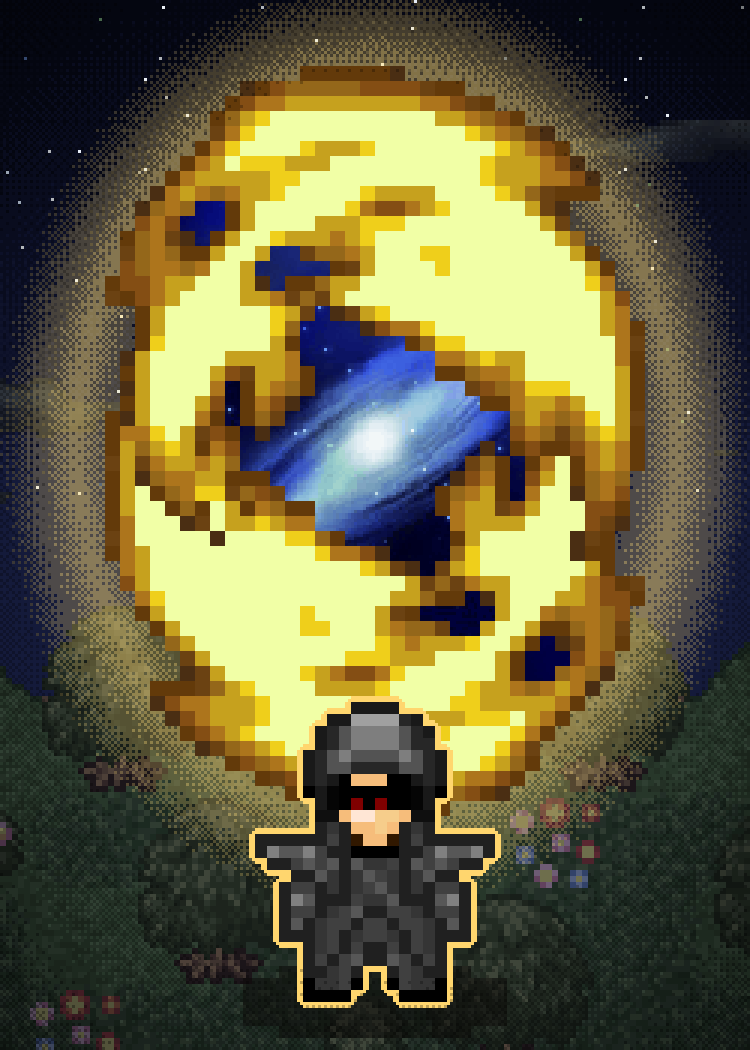
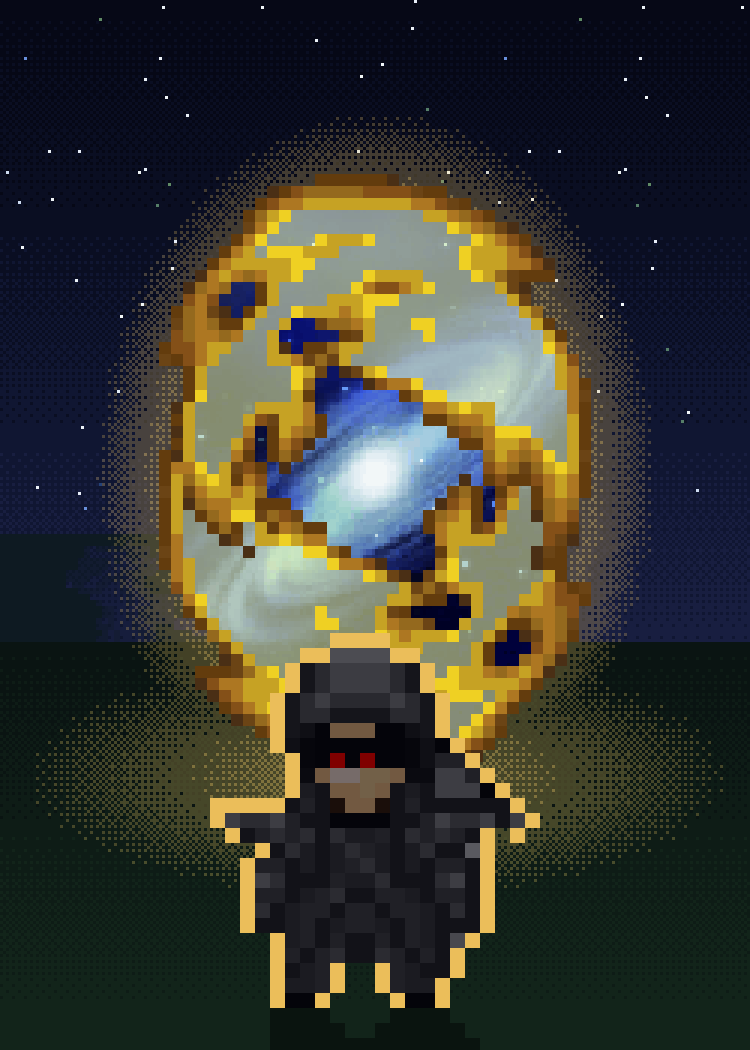
Sleeve-Entwürfe Runde 3b: Zwischenstand der laufenden Blöcke
Claude-Session: https://claude.ai/code/session_01TEnvTzH2xD44R6Unjv7vDo

diff --git a/data/sleeve-proposals/runde3/generator/s37_portal.py b/data/sleeve-proposals/runde3/generator/s37_portal.py
@@ -41,7 +41,7 @@ for oy, ox in [(0, 0), (0, 160), (80, 80), (80, -80), (150, 20)]:
 
 # ---------- Hügelkamm (2×, flache Silhouette weit hinten) ----------
 ridge = layer(G, 353)[190:260, 83:403].copy()
-ridge[..., :3] = (12, 22, 26)
+ridge[..., :3] = (14, 26, 34)
 R2 = up(ridge[:, 30:160], 2)
 cv.paste(R2, 0, HOR - 36)
 cv.rect(0, HOR + R2.shape[0] - 36, W, H, (12, 22, 26))
@@ -63,7 +63,7 @@ RX, RY = 125 - RW // 2, HOR + 44 - RH           # Portalfuß steht auf der Licht
 # goldener Schein um das Portal und auf dem Boden davor (fein gedithert)
 pcx, pcy = 125, RY + RH // 2
 d = np.sqrt(((xx - pcx) / 1.0) ** 2 + ((yy - pcy) / 1.3) ** 2)
-gl = np.clip(1 - np.abs(d - RW * 0.55) / 40, 0, 1) * 0.45
+gl = np.clip(1 - np.abs(d - RW * 0.5) / 22, 0, 1) * 0.35
 gd = np.sqrt(((xx - 125) / 1.0) ** 2 + ((yy - (HOR + 44)) / 0.35) ** 2)
 gl = np.maximum(gl, np.clip(1 - gd / 120, 0, 1) * 0.55 * (yy > HOR))
 qq = np.floor(gl * 4 + BAYER4[yy % 4, xx % 4]) / 4

diff --git a/data/sleeve-proposals/runde3/generator/s17_hydra_duel.py b/data/sleeve-proposals/runde3/generator/s17_hydra_duel.py
@@ -45,7 +45,7 @@ shade_rows(cv, 0, 120, 0.6, 0.0, (8, 12, 40), k=KM)            # Sturmdunkel
 hydra = figure('c17_hydra', RU, [9])
 Hy = up(hydra, KM)
 WL = SHORE - 5 * KM                                             # Wasserlinie (knapp vor der Kante sichtbar)
-hx, hy = (W - Hy.shape[1]) // 2 + 3, WL + 10 * KM - Hy.shape[0]
+hx, hy = (W - Hy.shape[1]) // 2 + 3, WL + 4 * KM - Hy.shape[0]
 vis = Hy[:WL - hy].copy()
 cv.paste(silhouette(vis, (10, 16, 50)), hx + KM, hy + 2 * KM, alpha=0.5)
 cv.paste(vis, hx, hy)
@@ -65,7 +65,6 @@ tile_fill(cv, hatch, 0, SHORE, W, SHORE + 10 * KF, k=KF, ox=8)
 cv.rect(0, SHORE, W, SHORE + KF, (250, 252, 255))
 tile_fill(cv, snow, 0, SHORE + 9 * KF, W, H, k=KF)
 cv.rect(0, SHORE + 9 * KF, W, SHORE + 10 * KF, (196, 196, 236))
-shade_rows(cv, SHORE + 10 * KF, H, 0.0, 0.25, (60, 60, 120), k=KF)
 
 # ---------- Bärenreiter von hinten (4×), steht auf dem Schneefeld
 bear = figure('c17_bear_back', RU, [76])
